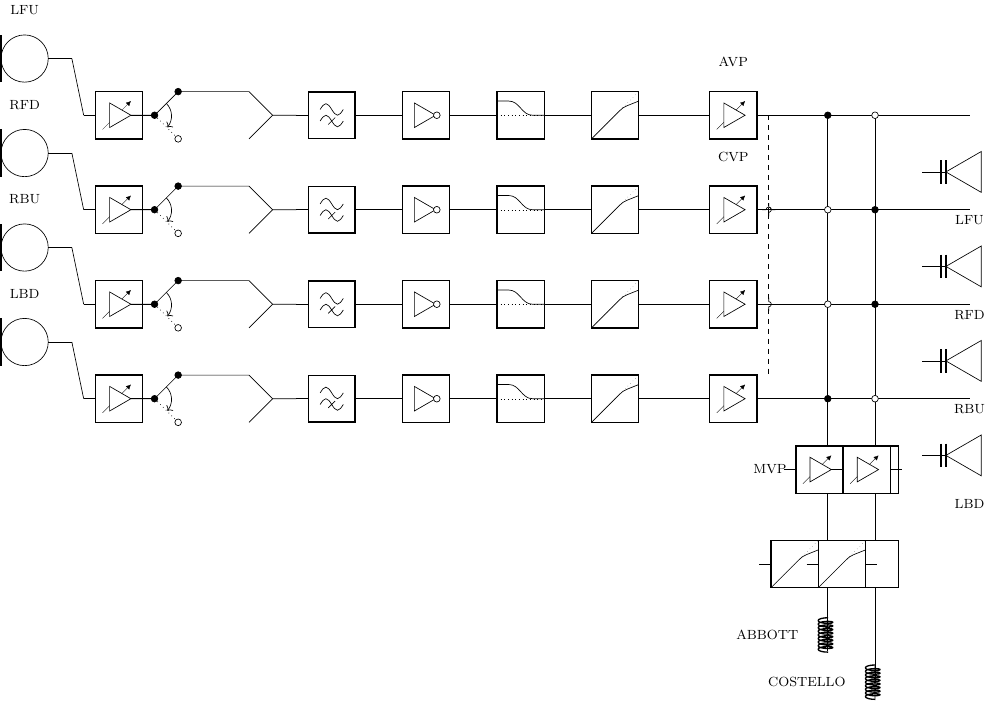
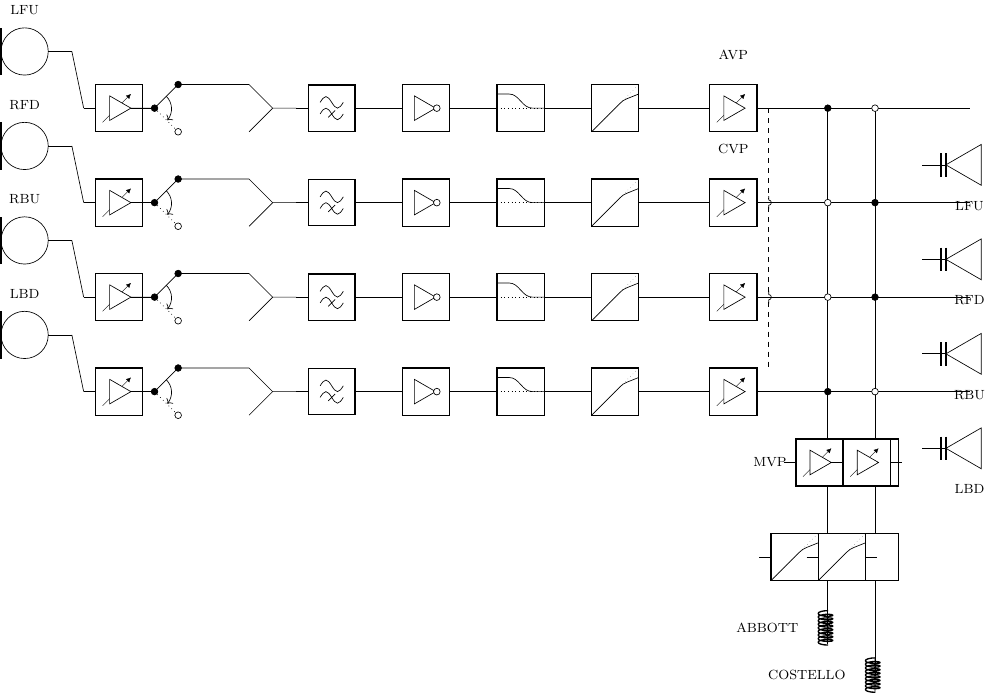
fix(gs): allinea sigle di canale al proprio microfono + rimuove crossing vestigiale

diff --git a/fonts/gs/test/timpano.tex b/fonts/gs/test/timpano.tex
@@ -17,7 +17,7 @@
 \newcommand{\gschannel}[3]{%
   % trasduttore di ingresso
   \pic[rotate=90] (#1mic) at (0,{#2+1.2}) {sean symbol=gmic};
-  \node[font=\footnotesize, anchor=south] at (0,{#2+2}) {#3};
+  \node[font=\footnotesize, anchor=south] at (0,{#2+1.85}) {#3};
   % catena
   \pic (#1pre) at (2,{#2})   {sean symbol=preamp};
   \pic (#1sw)  at (4,{#2})   {sean symbol=switch};
@@ -55,7 +55,7 @@
 \draw[fill] (17,0) circle (2pt);
 % loudspeaker LFU
 \pic[rotate=-90] (lfuspk) at (20,-1.2) {sean symbol=lspk};
-\node[font=\footnotesize, anchor=north] at (20,-2) {LFU};
+\node[font=\footnotesize, anchor=north] at (20,-1.85) {LFU};
 \draw[seg/analog] (17,0) -- (19,0) -- (20,0);
 
 % --- RFD (y=-2) -------------------------------------------------
@@ -64,14 +64,12 @@
 \pic (rfdcvp) at (15,-2) {sean symbol=preamp};
 \node[font=\footnotesize, anchor=south] at (15,-1.1) {CVP};
 \draw[seg/analog] (rfdcmp-out) -- (rfdcvp-in);
-% connessione al bus R (x=18) tramite crossing RFD
-\draw[dashed] (15.75,-2) -- (16.25,-2);
+% connessione al bus R (x=18)
 \draw[seg/analog] (rfdcvp-out) -- (18,-2);
-\node at (15.75,-2) [jump crossing, rotate=0] (rfdcrossA){};
 \draw[fill] (18,-2) circle (2pt);
 % loudspeaker RFD
 \pic[rotate=-90] (rfdspk) at (20,-3.2) {sean symbol=lspk};
-\node[font=\footnotesize, anchor=north] at (20,-4) {RFD};
+\node[font=\footnotesize, anchor=north] at (20,-3.85) {RFD};
 \draw[seg/analog] (18,-2) -- (19,-2) -- (20,-2);
 
 % --- RBU (y=-4) -------------------------------------------------
@@ -84,7 +82,7 @@
 \draw[fill] (18,-4) circle (2pt);
 % loudspeaker RBU
 \pic[rotate=-90] (rbuspk) at (20,-5.2) {sean symbol=lspk};
-\node[font=\footnotesize, anchor=north] at (20,-6) {RBU};
+\node[font=\footnotesize, anchor=north] at (20,-5.85) {RBU};
 \draw[seg/analog] (18,-4) -- (19,-4) -- (20,-4);
 
 % --- LBD (y=-6) -------------------------------------------------
@@ -97,7 +95,7 @@
 \draw[fill] (17,-6) circle (2pt);
 % loudspeaker LBD
 \pic[rotate=-90] (lbdspk) at (20,-7.2) {sean symbol=lspk};
-\node[font=\footnotesize, anchor=north] at (20,-8) {LBD};
+\node[font=\footnotesize, anchor=north] at (20,-7.85) {LBD};
 \draw[seg/analog] (17,-6) -- (19,-6) -- (20,-6);
 
 % ================================================================